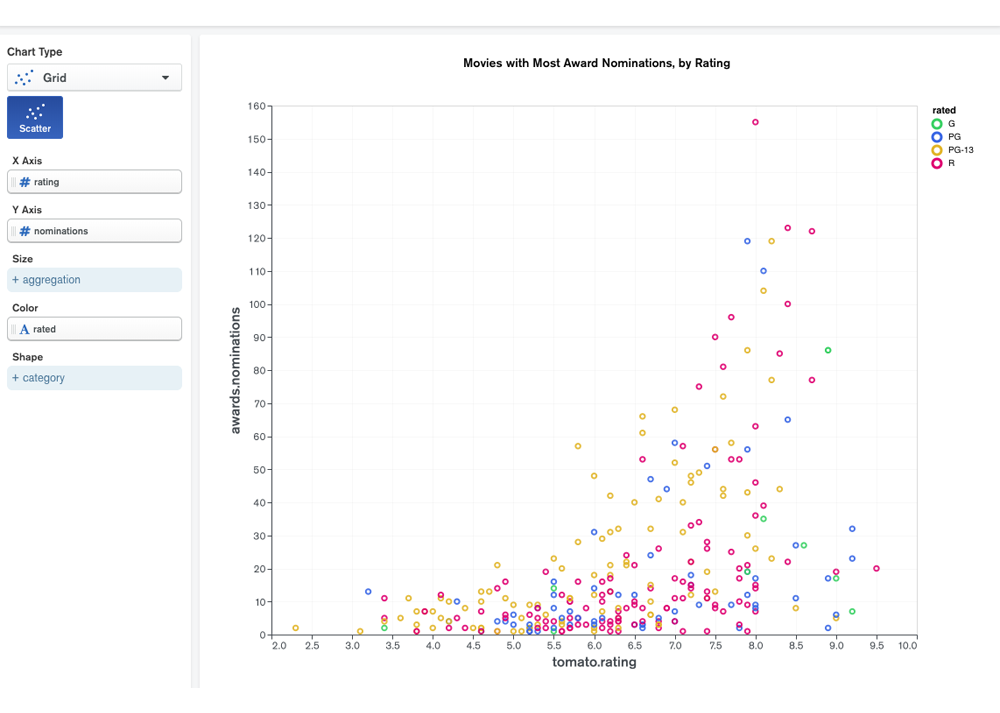
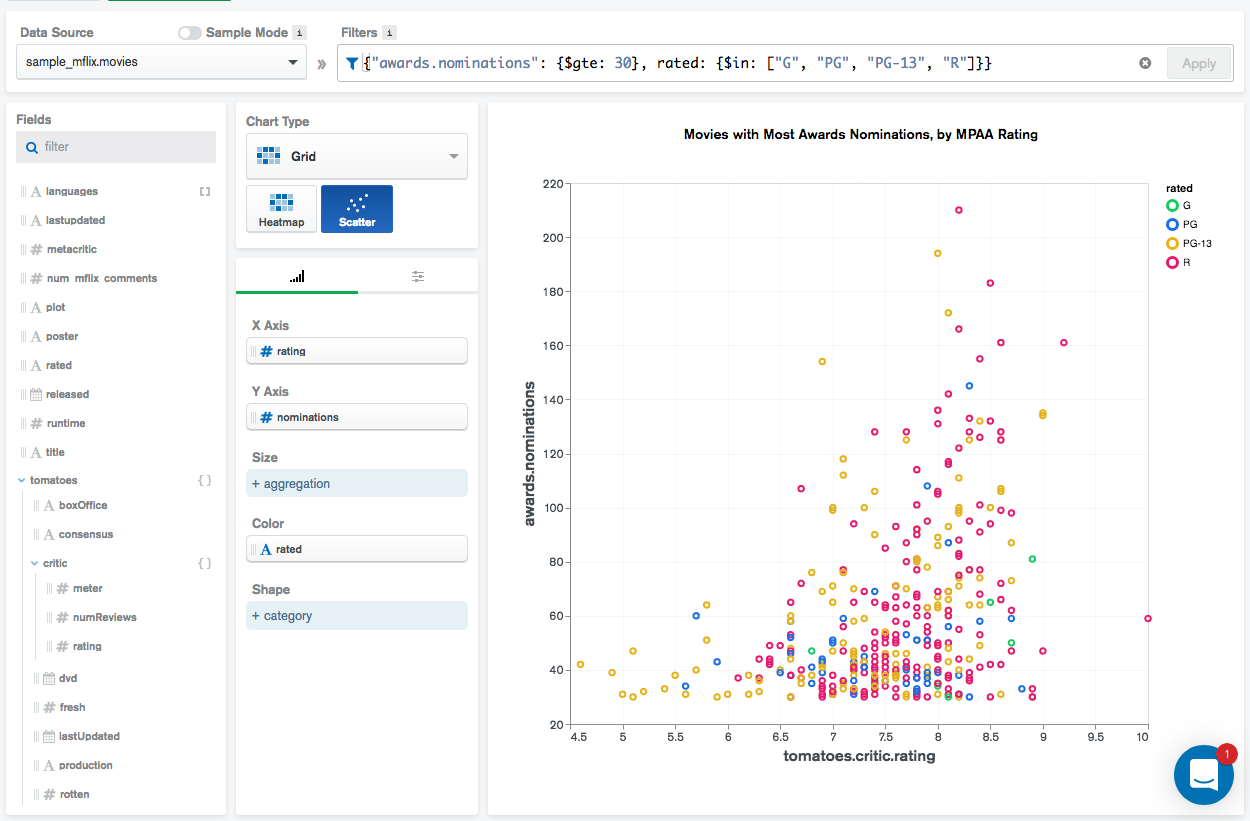
(DOCSP-5282): Updating Charts tutorial to use mflix sample data (#164)
* (DOCSP-5282): Updating Charts tutorial to use mflix sample data

* Updates per review feedback

diff --git a/conf.py b/conf.py
@@ -74,7 +74,8 @@ pygments_style = 'sphinx'
 extlinks = {
     'issue': ('https://jira.mongodb.org/browse/%s', ''),
     'manual': ('http://docs.mongodb.org/manual%s', ''),
-    'v0.10': ('https://docs.mongodb.com/charts/v0.10%s', '')
+    'v0.10': ('https://docs.mongodb.com/charts/v0.10%s', ''),
+    'atlas': ('https://docs.atlas.mongodb.com%s', '')
 }
 
 source_constants = {

diff --git a/source/includes/encoding-channels.rst b/source/includes/encoding-channels.rst
@@ -1,8 +1,5 @@
 To create each chart, you will populate the chart's
 :ref:`encoding channels <encoding-channels>` with fields from your
-schema. Encoding channels represent the information passed to
-|charts| which allows |charts-short| to create the visualization.
-For more information on encoding channels and the different types of
-channels available, refer to the
-:ref:`encoding channels section <encoding-channels>` of the
-documentation.
+schema. :ref:`Encoding channels <encoding-channels>` represent the
+information passed to |charts| which allows |charts-short| to create
+the visualization.
